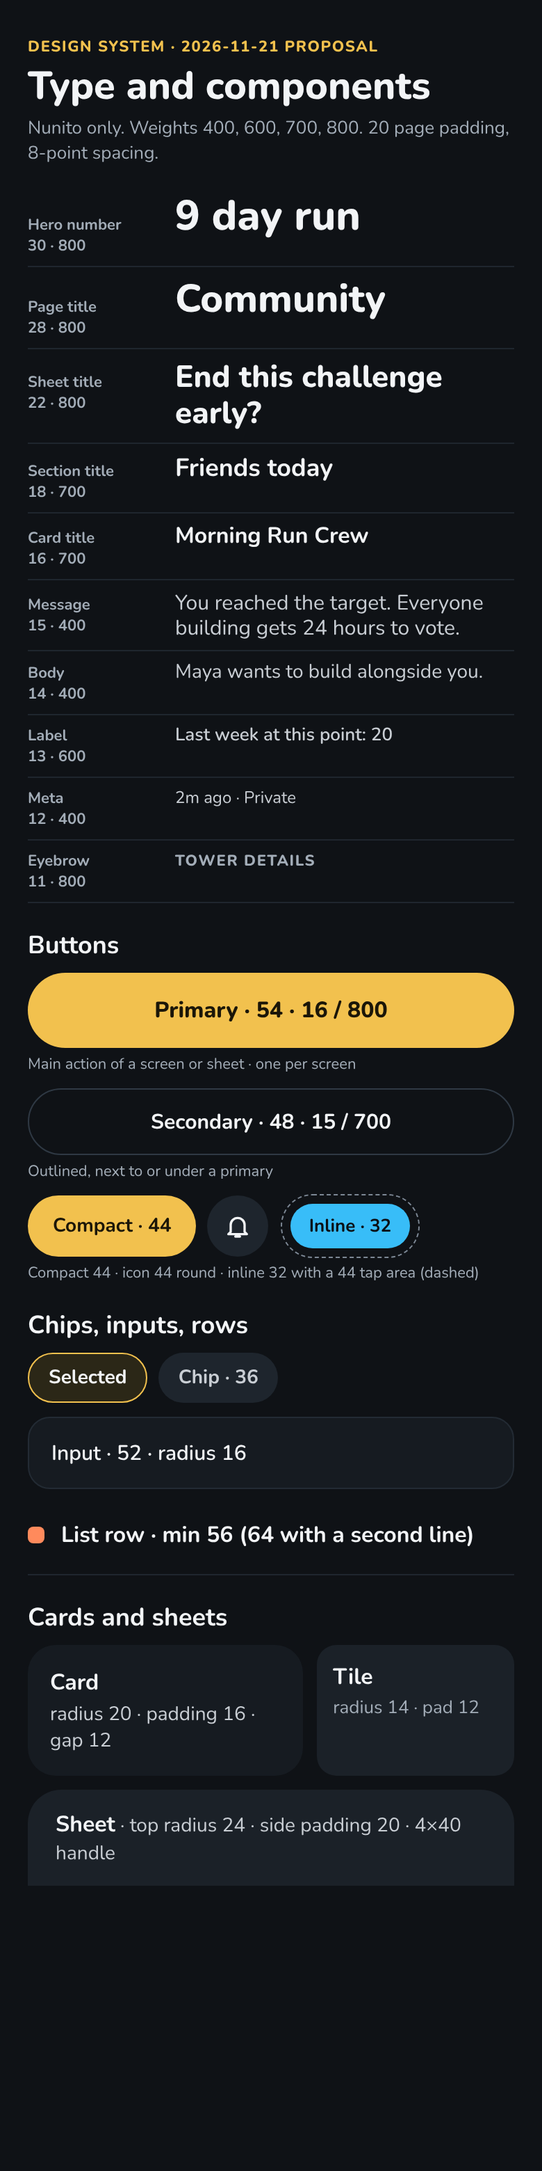
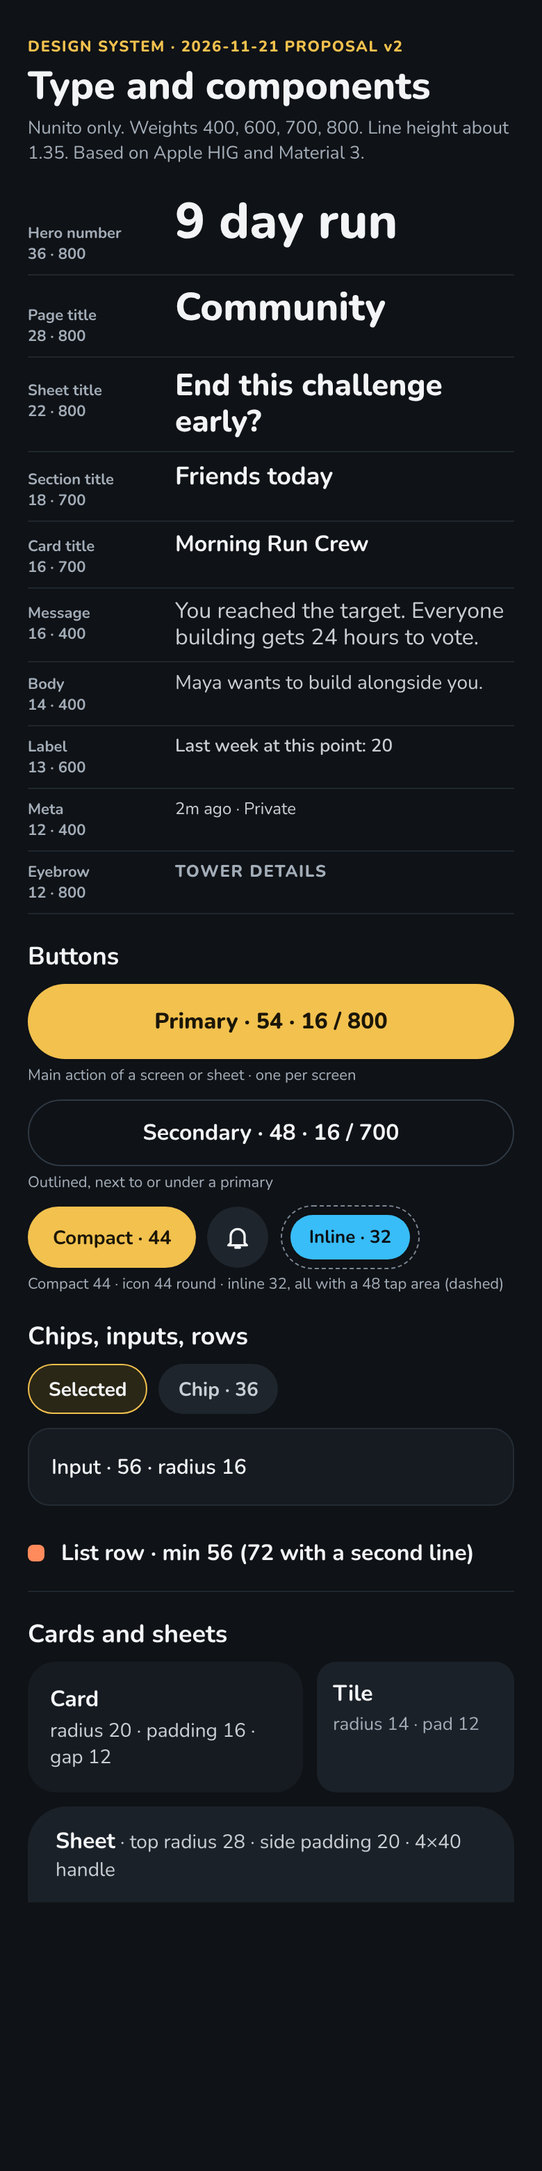
Design system proposal v2 from best-practice research
Claude-Session: https://claude.ai/code/session_01UvWD32uMFJU1E2B9jDYiLg

diff --git a/design/skyline/source/old.js b/design/skyline/source/old.js
@@ -86,7 +86,7 @@ if(S3==='ho-hold'){
   R.innerHTML=`<div style="position:absolute;inset:0;overflow:hidden"><svg width="390" height="560" style="position:absolute;top:0;left:0">${night(390,560,'h1')}<circle cx="320" cy="150" r="22" fill="#F4EFD8"/><circle cx="330" cy="144" r="20" fill="#121836"/><rect y="500" width="390" height="60" fill="#0F1216"/>${skyline(500,8.6,40,14,8,{hold:true,labels:true})}
    <circle cx="${14+3*60+27}" cy="${500-12*8.6-44}" r="28" fill="#121836" stroke="#3A4552" stroke-width="5"/><path d="M${14+3*60+27},${500-12*8.6-72}a28,28,0,1,1,-24,13" fill="none" stroke="#F2C14E" stroke-width="5" stroke-linecap="round"/><text x="${14+3*60+27}" y="${500-12*8.6-39}" text-anchor="middle" font-size="13" font-weight="800" fill="#fff" font-family="Nunito">Hold</text></svg>
    <div style="position:absolute;top:30px;left:20px;right:20px"><h1 style="font-size:30px">Keep holding</h1><div style="color:#C9CED4;font-size:15px;margin-top:2px;font-weight:600">Write, floor 15</div></div>
-   <div style="position:absolute;top:566px;left:0;right:0;bottom:76px;background:#161B21;border-radius:24px 24px 0 0;padding:16px 20px"><div style="display:flex;gap:10px">${[['Press','Tower lifts'],['Hold','Floor pours in'],['Set','Haptic tap, floor locks']].map(([t,s],i)=>`<div style="flex:1;border-radius:16px;padding:12px;${i===1?'border:2px solid #F2C14E;background:#1E252D':'background:#1B2128'}"><div style="font-weight:800;font-size:16px;${i===1?'color:#F2C14E':''}">${t}</div><div style="color:#A3ADB8;font-size:13px;margin-top:2px;line-height:1.3">${s}</div></div>`).join('')}</div>
+   <div style="position:absolute;top:566px;left:0;right:0;bottom:76px;background:#161B21;border-radius:28px 28px 0 0;padding:16px 20px"><div style="display:flex;gap:10px">${[['Press','Tower lifts'],['Hold','Floor pours in'],['Set','Haptic tap, floor locks']].map(([t,s],i)=>`<div style="flex:1;border-radius:16px;padding:12px;${i===1?'border:2px solid #F2C14E;background:#1E252D':'background:#1B2128'}"><div style="font-weight:800;font-size:16px;${i===1?'color:#F2C14E':''}">${t}</div><div style="color:#A3ADB8;font-size:13px;margin-top:2px;line-height:1.3">${s}</div></div>`).join('')}</div>
    <div style="color:#A3ADB8;font-size:14px;line-height:1.5;margin-top:14px">Hold for about a second. Let go early and nothing is built, so a stray touch never counts. Prefer a quick tap? Turn on Tap to build in Accessibility settings.</div></div></div>${tabBar(0)}`;
 }
 if(S3==='to-confirm'){
@@ -129,10 +129,10 @@ function fullHome(opt={}){
   T.forEach(([n,c,f,l],i)=>{const x=22+i*92;const full=f>=35;if(opt.done&&n==='Push ups'){o+=`<g opacity=".4">${tw('#7A6A58',{x:x-16,base:568,w:56,fh,dx:18,dy:10,floors:rep('dark',30),windows:2,today:false,wW:2.6,wH:1.8})}<path d="M${x-16},${568-30*fh}l18,-10h56l-18,10Z" fill="#E0B84A"/><path d="M${x+28},${568-30*fh-10}v-20l14,5l-14,5" fill="#F2C14E" stroke="#F2C14E" stroke-width="1.5"/></g>`;}o+=tw(c,{x,base:568,w:56,fh,dx:18,dy:10,floors:grow(f,l),windows:2,today:full?!opt.blocked:i===0,wW:2.6,wH:1.8});
     if(full&&opt.crown)o+=`<path d="M${x-2},${568-f*fh-2}h60" stroke="#F2C14E" stroke-width="3" stroke-linecap="round"/><path d="M${x+6},${568-f*fh-4}l6,-10l8,6l8,-10l8,10l8,-6l6,10Z" fill="#F2C14E"/>`;
     o+=`<text x="${x+37}" y="592" text-anchor="middle" font-size="12" font-weight="700" fill="#F2F4F6" font-family="Nunito">${n}</text>`});
-  return `<svg width="390" height="610" style="position:absolute;top:0;left:0">${night(390,568,'f1')}<rect y="568" width="390" height="42" fill="#0F1216"/>${o}</svg>${hdr3}<div style="position:absolute;top:612px;left:0;right:0;bottom:76px;background:#161B21;border-radius:24px 24px 0 0;padding:12px 20px"><div style="width:40px;height:4px;border-radius:2px;background:#3A4552;margin:0 auto 10px"></div>${['Push ups','Run'].map((n,i)=>`<div style="display:flex;align-items:center;gap:12px;height:50px"><i style="width:12px;height:12px;border-radius:4px;background:${i?'#FF8A5C':'#A78BFA'};display:block"></i><div style="flex:1;font-weight:700;font-size:15.5px">${n}</div><div style="width:86px;height:38px;border-radius:19px;border:1.5px solid #4a3f1c;display:flex;align-items:center;justify-content:center;font-weight:700;font-size:14px;color:#F2C14E">Hold</div></div>`).join('')}</div>${tabBar(0)}`;
+  return `<svg width="390" height="610" style="position:absolute;top:0;left:0">${night(390,568,'f1')}<rect y="568" width="390" height="42" fill="#0F1216"/>${o}</svg>${hdr3}<div style="position:absolute;top:612px;left:0;right:0;bottom:76px;background:#161B21;border-radius:28px 28px 0 0;padding:12px 20px"><div style="width:40px;height:4px;border-radius:2px;background:#3A4552;margin:0 auto 10px"></div>${['Push ups','Run'].map((n,i)=>`<div style="display:flex;align-items:center;gap:12px;height:50px"><i style="width:12px;height:12px;border-radius:4px;background:${i?'#FF8A5C':'#A78BFA'};display:block"></i><div style="flex:1;font-weight:700;font-size:15.5px">${n}</div><div style="width:86px;height:38px;border-radius:19px;border:1.5px solid #4a3f1c;display:flex;align-items:center;justify-content:center;font-weight:700;font-size:14px;color:#F2C14E">Hold</div></div>`).join('')}</div>${tabBar(0)}`;
 }
 const dimL=(h)=>`<div style="position:absolute;inset:0;background:rgba(4,6,10,.62)"></div>`;
-const sheetCard=(top,title,body,primary,secondary,extra='')=>`<div style="position:absolute;left:0;right:0;top:${top}px;bottom:76px;background:#1B2128;border-radius:24px 24px 0 0;padding:12px 22px"><div style="width:40px;height:4px;border-radius:2px;background:#3A4552;margin:0 auto 16px"></div><div style="width:48px;height:48px;border-radius:14px;background:#2B2717;display:flex;align-items:center;justify-content:center"><svg width="26" height="26" viewBox="0 0 24 24" fill="none" stroke="#F2C14E" stroke-width="2" stroke-linecap="round" stroke-linejoin="round"><path d="M4 18l2-9 4 4 2-7 2 7 4-4 2 9Z"/><path d="M4 21h16"/></svg></div><div style="font-size:22px;font-weight:800;margin-top:14px;line-height:1.2">${title}</div><div style="color:#C9CED4;font-size:15px;line-height:1.5;margin-top:8px">${body}</div>${extra}<div style="margin-top:18px;height:54px;border-radius:27px;background:#F2C14E;color:#1b1608;font-weight:800;font-size:16.5px;display:flex;align-items:center;justify-content:center">${primary}</div><div style="margin-top:6px;height:48px;display:flex;align-items:center;justify-content:center;font-weight:800;font-size:15px;color:#C9CED4">${secondary}</div></div>`;
+const sheetCard=(top,title,body,primary,secondary,extra='')=>`<div style="position:absolute;left:0;right:0;top:${top}px;bottom:76px;background:#1B2128;border-radius:28px 28px 0 0;padding:12px 22px"><div style="width:40px;height:4px;border-radius:2px;background:#3A4552;margin:0 auto 16px"></div><div style="width:48px;height:48px;border-radius:14px;background:#2B2717;display:flex;align-items:center;justify-content:center"><svg width="26" height="26" viewBox="0 0 24 24" fill="none" stroke="#F2C14E" stroke-width="2" stroke-linecap="round" stroke-linejoin="round"><path d="M4 18l2-9 4 4 2-7 2 7 4-4 2 9Z"/><path d="M4 21h16"/></svg></div><div style="font-size:22px;font-weight:800;margin-top:14px;line-height:1.2">${title}</div><div style="color:#C9CED4;font-size:15px;line-height:1.5;margin-top:8px">${body}</div>${extra}<div style="margin-top:18px;height:54px;border-radius:27px;background:#F2C14E;color:#1b1608;font-weight:800;font-size:16.5px;display:flex;align-items:center;justify-content:center">${primary}</div><div style="margin-top:6px;height:48px;display:flex;align-items:center;justify-content:center;font-weight:800;font-size:15px;color:#C9CED4">${secondary}</div></div>`;
 if(S3==='ft-warn'){
   R.innerHTML=`<div style="position:absolute;inset:0;overflow:hidden">${fullHome({crown:false,pf:27})}${dimL()}${sheetCard(420,'Push ups tops out in 3 days','It finishes on its own at 30 days, the cap you set when you created it. Top it out now, or change the cap in Edit. Your run carries over and nothing is lost.','Top out now','Not now')}</div>`;
 }
@@ -156,7 +156,7 @@ if(S3==='ft-sheet'){
   const pic=`<svg width="96" height="176" style="flex:0 0 96px">${tw('#7A6A58',{x:16,base:170,w:44,fh:4.6,dx:16,dy:9,floors:rep('dark',30),windows:2,today:false,wW:2.4,wH:1.6})}${flagCap(16,170-30*4.6,44,16,9)}</svg>`;
   const tile=(v,l)=>`<div style="flex:1;background:#161B21;border-radius:14px;padding:12px 10px;text-align:center"><div style="font-size:20px;font-weight:800">${v}</div><div style="font-size:12px;color:#A3ADB8;margin-top:2px">${l}</div></div>`;
   R.innerHTML=`<div style="position:absolute;inset:0;overflow:hidden">${fullHome({done:true})}${dimL()}
-  <div style="position:absolute;left:0;right:0;top:250px;bottom:76px;background:#1B2128;border-radius:24px 24px 0 0;padding:12px 22px"><div style="width:40px;height:4px;border-radius:2px;background:#3A4552;margin:0 auto 12px"></div>
+  <div style="position:absolute;left:0;right:0;top:250px;bottom:76px;background:#1B2128;border-radius:28px 28px 0 0;padding:12px 22px"><div style="width:40px;height:4px;border-radius:2px;background:#3A4552;margin:0 auto 12px"></div>
    <div style="color:#A3ADB8;font-size:11px;font-weight:800;letter-spacing:.8px">FINISHED TOWER</div>
    <div style="display:flex;gap:14px;align-items:center;margin-top:2px">${pic}<div style="flex:1"><div style="font-size:26px;font-weight:800;line-height:1.15">Push ups</div><div style="color:#A3ADB8;font-size:14px;margin-top:3px">Topped out Oct 12 · stood 30 days</div><div style="display:inline-block;margin-top:8px;font-size:12.5px;font-weight:800;padding:5px 11px;border-radius:14px;background:#2B2717;color:#F2C14E">Topped out on its own at the cap</div></div></div>
    <div style="display:flex;gap:8px;margin-top:6px">${tile('26','Total built')}${tile('17 days','Best run here')}${tile('Sep 13','Started')}</div>
@@ -239,7 +239,7 @@ if(S3==='ev-page'){
   R.innerHTML=evPage(holdBtn('<div style="height:44px;display:flex;align-items:center;justify-content:center;font-weight:800;font-size:15px;color:#C9CED4;margin-top:2px">End early</div>'));
 }
 if(S3==='ev-start'){
-  R.innerHTML=evPage(holdBtn(''))+`<div style="position:absolute;inset:0;background:rgba(4,6,10,.62)"></div><div style="position:absolute;left:0;right:0;top:420px;bottom:76px;background:#1B2128;border-radius:24px 24px 0 0;padding:12px 22px"><div style="width:40px;height:4px;border-radius:2px;background:#3A4552;margin:0 auto 14px"></div><div style="font-size:22px;font-weight:800;line-height:1.2">End this challenge early?</div><div style="color:#C9CED4;font-size:15px;line-height:1.5;margin-top:8px">You've reached the target. Everyone building gets 24 hours to vote. It ends as soon as more than half of all members say yes. No answer counts as no.</div><div style="margin-top:18px;height:54px;border-radius:27px;background:#F2C14E;color:#1b1608;font-weight:800;font-size:16.5px;display:flex;align-items:center;justify-content:center">Start the vote</div><div style="margin-top:6px;height:46px;display:flex;align-items:center;justify-content:center;font-weight:800;font-size:15px;color:#C9CED4">Keep building</div></div>`;
+  R.innerHTML=evPage(holdBtn(''))+`<div style="position:absolute;inset:0;background:rgba(4,6,10,.62)"></div><div style="position:absolute;left:0;right:0;top:420px;bottom:76px;background:#1B2128;border-radius:28px 28px 0 0;padding:12px 22px"><div style="width:40px;height:4px;border-radius:2px;background:#3A4552;margin:0 auto 14px"></div><div style="font-size:22px;font-weight:800;line-height:1.2">End this challenge early?</div><div style="color:#C9CED4;font-size:15px;line-height:1.5;margin-top:8px">You've reached the target. Everyone building gets 24 hours to vote. It ends as soon as more than half of all members say yes. No answer counts as no.</div><div style="margin-top:18px;height:54px;border-radius:27px;background:#F2C14E;color:#1b1608;font-weight:800;font-size:16.5px;display:flex;align-items:center;justify-content:center">Start the vote</div><div style="margin-top:6px;height:46px;display:flex;align-items:center;justify-content:center;font-weight:800;font-size:15px;color:#C9CED4">Keep building</div></div>`;
 }
 const tallyBar=(yes,no,total)=>`<div style="display:flex;gap:3px;height:12px;margin-top:10px">${Array.from({length:total},(_,i)=>`<div style="flex:1;border-radius:6px;background:${i<yes?'#F2C14E':(i<yes+no?'#8A93A0':'#2A333D')}"></div>`).join('')}</div>`;
 const voteCard=(mine)=>`<div style="position:absolute;left:20px;right:20px;bottom:86px;background:#1B2128;border:1.5px solid #3A4552;border-radius:20px;padding:14px 16px"><div style="display:flex;justify-content:space-between;align-items:center"><b style="font-size:17px">Vote: end early?</b><span style="color:#F2C14E;font-weight:800;font-size:13.5px">Closes in 18h</span></div><div style="color:#C9CED4;font-size:14px;line-height:1.45;margin-top:4px">Sawan proposed ending now that the target is reached. Needs 3 of 4 yes. No answer counts as no.</div>${tallyBar(mine?2:1,0,4)}<div style="display:flex;justify-content:space-between;color:#A3ADB8;font-size:13px;font-weight:700;margin-top:6px"><span>${mine?'2':'1'} yes</span><span>0 no</span><span>${mine?'2':'3'} not voted yet</span></div>
@@ -297,7 +297,7 @@ if(S3==='np-push'){
 const SKD='file:///home/user/habituate/design/skyline/';
 if(S3==='ne-end'){
   R.innerHTML=`<div style="position:absolute;inset:0;overflow:hidden"><img src="${SKD}10-sharedhabit.png" style="position:absolute;inset:0;width:390px;height:844px"><div style="position:absolute;inset:0;background:rgba(4,6,10,.66)"></div>
-  <div style="position:absolute;left:0;right:0;top:330px;bottom:0;background:#1B2128;border-radius:24px 24px 0 0;padding:12px 22px"><div style="width:40px;height:4px;border-radius:2px;background:#3A4552;margin:0 auto 16px"></div>
+  <div style="position:absolute;left:0;right:0;top:330px;bottom:0;background:#1B2128;border-radius:28px 28px 0 0;padding:12px 22px"><div style="width:40px;height:4px;border-radius:2px;background:#3A4552;margin:0 auto 16px"></div>
   <div style="font-size:22px;font-weight:800;line-height:1.2">End Morning Run Crew?</div>
   <div style="color:#C9CED4;font-size:15px;line-height:1.5;margin-top:8px">Its final group run, 12 days, stays on the page and the shared habit moves to Completed. Nobody can build on it any more, and every member sees it as ended.</div>
   <div style="margin-top:12px;background:#161B21;border-radius:14px;padding:12px 14px;font-size:14px;color:#A3ADB8;line-height:1.45">Want to remove it for everyone instead? Use Delete. That erases it, including the group run.</div>
@@ -307,7 +307,7 @@ if(S3==='ne-end'){
 if(S3==='ne-join'){
   const habits=[['Run','#FF8A5C',true],['Read 10 minutes','#38BDF8',false],['Write 300 words','#F2C14E',false]];
   R.innerHTML=`<div style="position:absolute;inset:0;overflow:hidden"><img src="${SKD}40-notification-center.png" style="position:absolute;inset:0;width:390px;height:844px"><div style="position:absolute;inset:0;background:rgba(4,6,10,.66)"></div>
-  <div style="position:absolute;left:0;right:0;top:300px;bottom:0;background:#1B2128;border-radius:24px 24px 0 0;padding:12px 22px"><div style="width:40px;height:4px;border-radius:2px;background:#3A4552;margin:0 auto 16px"></div>
+  <div style="position:absolute;left:0;right:0;top:300px;bottom:0;background:#1B2128;border-radius:28px 28px 0 0;padding:12px 22px"><div style="width:40px;height:4px;border-radius:2px;background:#3A4552;margin:0 auto 16px"></div>
   <div style="font-size:22px;font-weight:800;line-height:1.2">Join Morning Run Crew</div>
   <div style="color:#C9CED4;font-size:15px;line-height:1.5;margin-top:6px">Pick the habit you'll build with this group.</div>
   <div style="margin-top:12px">${habits.map(([n,c,on])=>`<div style="display:flex;align-items:center;gap:12px;height:56px;border-bottom:1px solid #232b34"><i style="width:12px;height:12px;border-radius:4px;background:${c};display:block"></i><div style="flex:1;font-weight:700;font-size:16px">${n}</div><div style="width:24px;height:24px;border-radius:12px;border:2px solid ${on?'#F2C14E':'#3A4552'};display:flex;align-items:center;justify-content:center">${on?'<i style="width:12px;height:12px;border-radius:6px;background:#F2C14E;display:block"></i>':''}</div></div>`).join('')}</div>
@@ -317,7 +317,7 @@ if(S3==='ne-join'){
 
 function sheetBase(head,body){
   return `<div style="position:absolute;inset:0;overflow:hidden"><div style="position:absolute;top:0;left:0;right:0;height:80px;background:linear-gradient(#0B1030,#1A2148)"></div>
-  <div style="position:absolute;top:56px;left:0;right:0;bottom:76px;background:#161B21;border-radius:24px 24px 0 0;padding:0 20px;overflow:hidden"><div style="width:40px;height:4px;border-radius:2px;background:#3A4552;margin:10px auto 8px"></div>${head}${body}</div></div>${tabBar(0)}`;
+  <div style="position:absolute;top:56px;left:0;right:0;bottom:76px;background:#161B21;border-radius:28px 28px 0 0;padding:0 20px;overflow:hidden"><div style="width:40px;height:4px;border-radius:2px;background:#3A4552;margin:10px auto 8px"></div>${head}${body}</div></div>${tabBar(0)}`;
 }
 const tsHead=(name,meta,why)=>`<div style="display:flex;gap:10px;align-items:center"><div style="width:12px;height:30px;border-radius:5px;background:#F2C14E"></div><div><div style="color:#A3ADB8;font-size:11px;font-weight:800;letter-spacing:.8px">TOWER DETAILS</div><div style="font-size:22px;font-weight:800;line-height:1.15">${name}</div><div style="color:#A3ADB8;font-size:12.5px">${meta}</div></div></div>`;
 const capRow=`<div style="border:1.5px solid #F2C14E;background:#2B2717;border-radius:16px;padding:10px 12px;display:flex;gap:10px;align-items:center;margin-top:10px"><div style="flex:1"><div style="font-weight:800;font-size:14.5px">Tops out at 30 days</div><div style="color:#A3ADB8;font-size:12px;line-height:1.3;margin-top:2px">12 days to go. It tops out on its own, or you can top it out now.</div></div><div style="background:#F2C14E;color:#1b1608;font-weight:800;border-radius:20px;height:36px;padding:0 14px;display:flex;align-items:center;font-size:13.5px;white-space:nowrap">Top out now</div></div>`;
@@ -357,23 +357,23 @@ if(S3==='ts-count-unit'){
 }
 
 if(S3==='ds-spec'){
-  const TYPE=[['Hero number','30','800','9 day run'],['Page title','28','800','Community'],['Sheet title','22','800','End this challenge early?'],['Section title','18','700','Friends today'],['Card title','16','700','Morning Run Crew'],['Message','15','400','You reached the target. Everyone building gets 24 hours to vote.'],['Body','14','400','Maya wants to build alongside you.'],['Label','13','600','Last week at this point: 20'],['Meta','12','400','2m ago · Private'],['Eyebrow','11','800','TOWER DETAILS']];
+  const TYPE=[['Hero number','36','800','9 day run'],['Page title','28','800','Community'],['Sheet title','22','800','End this challenge early?'],['Section title','18','700','Friends today'],['Card title','16','700','Morning Run Crew'],['Message','16','400','You reached the target. Everyone building gets 24 hours to vote.'],['Body','14','400','Maya wants to build alongside you.'],['Label','13','600','Last week at this point: 20'],['Meta','12','400','2m ago · Private'],['Eyebrow','12','800','TOWER DETAILS']];
   const wt={'800':'800','700':'700','600':'600','400':'400'};
   const row=(n,sz,w,s)=>`<div style="display:flex;align-items:baseline;gap:10px;padding:7px 0;border-bottom:1px solid #1F262E"><div style="width:96px;flex:0 0 96px;color:#A3ADB8;font-size:11px;font-weight:700">${n}<br>${sz} · ${w}</div><div style="flex:1;font-size:${sz}px;font-weight:${w};line-height:1.2;${n==='Eyebrow'?'letter-spacing:.8px;color:#A3ADB8':(n==='Message'||n==='Body'||n==='Label'||n==='Meta')?'color:#C9CED4':''}">${s}</div></div>`;
   const spec=(t,d)=>`<div style="font-size:11px;color:#A3ADB8;margin-top:4px">${t}${d?` · ${d}`:''}</div>`;
-  R.innerHTML=`<div style="position:absolute;inset:0;overflow:hidden;padding:26px 20px 0"><div style="font-size:11px;font-weight:800;letter-spacing:.8px;color:#F2C14E">DESIGN SYSTEM · 2026-11-21 PROPOSAL</div><div style="font-size:28px;font-weight:800;margin-top:2px">Type and components</div><div style="color:#A3ADB8;font-size:13px;margin-top:2px">Nunito only. Weights 400, 600, 700, 800. 20 page padding, 8-point spacing.</div>
+  R.innerHTML=`<div style="position:absolute;inset:0;overflow:hidden;padding:26px 20px 0"><div style="font-size:11px;font-weight:800;letter-spacing:.8px;color:#F2C14E">DESIGN SYSTEM · 2026-11-21 PROPOSAL v2</div><div style="font-size:28px;font-weight:800;margin-top:2px">Type and components</div><div style="color:#A3ADB8;font-size:13px;margin-top:2px">Nunito only. Weights 400, 600, 700, 800. Line height about 1.35. Based on Apple HIG and Material 3.</div>
   <div style="margin-top:12px">${TYPE.map(t=>row(...t)).join('')}</div>
   <div style="font-size:18px;font-weight:700;margin:18px 0 8px">Buttons</div>
   <div style="height:54px;border-radius:27px;background:#F2C14E;color:#1b1608;font-weight:800;font-size:16px;display:flex;align-items:center;justify-content:center">Primary · 54 · 16 / 800</div>${spec('Main action of a screen or sheet','one per screen')}
-  <div style="height:48px;border-radius:24px;border:1.5px solid #2F3944;font-weight:700;font-size:15px;display:flex;align-items:center;justify-content:center;margin-top:10px">Secondary · 48 · 15 / 700</div>${spec('Outlined, next to or under a primary')}
-  <div style="display:flex;gap:8px;margin-top:10px;align-items:center"><div style="height:44px;padding:0 18px;border-radius:22px;background:#F2C14E;color:#1b1608;font-weight:700;font-size:14px;display:flex;align-items:center">Compact · 44</div><div style="height:44px;width:44px;border-radius:22px;background:#1E252D;display:flex;align-items:center;justify-content:center">${ico('bell',20)}</div><div style="position:relative;height:32px;padding:0 13px;border-radius:16px;background:#38BDF8;color:#0b0f14;font-weight:700;font-size:13px;display:flex;align-items:center;outline:1px dashed #7C8794;outline-offset:6px;margin-left:8px">Inline · 32</div></div>${spec('Compact 44 · icon 44 round · inline 32 with a 44 tap area (dashed)')}
+  <div style="height:48px;border-radius:24px;border:1.5px solid #2F3944;font-weight:700;font-size:16px;display:flex;align-items:center;justify-content:center;margin-top:10px">Secondary · 48 · 16 / 700</div>${spec('Outlined, next to or under a primary')}
+  <div style="display:flex;gap:8px;margin-top:10px;align-items:center"><div style="height:44px;padding:0 18px;border-radius:22px;background:#F2C14E;color:#1b1608;font-weight:700;font-size:14px;display:flex;align-items:center">Compact · 44</div><div style="height:44px;width:44px;border-radius:22px;background:#1E252D;display:flex;align-items:center;justify-content:center">${ico('bell',20)}</div><div style="position:relative;height:32px;padding:0 13px;border-radius:16px;background:#38BDF8;color:#0b0f14;font-weight:700;font-size:13px;display:flex;align-items:center;outline:1px dashed #7C8794;outline-offset:6px;margin-left:8px">Inline · 32</div></div>${spec('Compact 44 · icon 44 round · inline 32, all with a 48 tap area (dashed)')}
   <div style="font-size:18px;font-weight:700;margin:18px 0 8px">Chips, inputs, rows</div>
   <div style="display:flex;gap:8px"><div style="height:36px;border-radius:18px;padding:0 14px;display:flex;align-items:center;background:#2B2717;border:1.5px solid #F2C14E;font-weight:700;font-size:14px">Selected</div><div style="height:36px;border-radius:18px;padding:0 14px;display:flex;align-items:center;background:#1E252D;font-weight:700;font-size:14px;color:#C9CED4">Chip · 36</div></div>
-  <div style="height:52px;border-radius:16px;background:#161B21;border:1px solid #232b34;display:flex;align-items:center;padding:0 16px;font-size:15px;font-weight:600;margin-top:10px">Input · 52 · radius 16</div>
-  <div style="height:56px;display:flex;align-items:center;gap:12px;border-bottom:1px solid #1F262E;margin-top:6px"><i style="width:12px;height:12px;border-radius:4px;background:#FF8A5C;display:block"></i><b style="font-size:16px;flex:1">List row · min 56 (64 with a second line)</b></div>
+  <div style="height:56px;border-radius:16px;background:#161B21;border:1px solid #232b34;display:flex;align-items:center;padding:0 16px;font-size:15px;font-weight:600;margin-top:10px">Input · 56 · radius 16</div>
+  <div style="height:56px;display:flex;align-items:center;gap:12px;border-bottom:1px solid #1F262E;margin-top:6px"><i style="width:12px;height:12px;border-radius:4px;background:#FF8A5C;display:block"></i><b style="font-size:16px;flex:1">List row · min 56 (72 with a second line)</b></div>
   <div style="font-size:18px;font-weight:700;margin:18px 0 8px">Cards and sheets</div>
   <div style="display:flex;gap:10px"><div style="flex:1.4;background:#161B21;border-radius:20px;padding:16px"><b style="font-size:16px">Card</b><div style="font-size:14px;color:#C9CED4;margin-top:2px">radius 20 · padding 16 · gap 12</div></div><div style="flex:1;background:#1B2128;border-radius:14px;padding:12px"><b style="font-size:16px">Tile</b><div style="font-size:13px;color:#A3ADB8;margin-top:2px">radius 14 · pad 12</div></div></div>
-  <div style="background:#1B2128;border-radius:24px 24px 0 0;padding:14px 20px;margin-top:10px;font-size:14px;color:#C9CED4"><b style="font-size:16px;color:#F2F4F6">Sheet</b> · top radius 24 · side padding 20 · 4×40 handle</div></div>`;
+  <div style="background:#1B2128;border-radius:28px 28px 0 0;padding:14px 20px;margin-top:10px;font-size:14px;color:#C9CED4"><b style="font-size:16px;color:#F2F4F6">Sheet</b> · top radius 28 · side padding 20 · 4×40 handle</div></div>`;
 }
 
 //END

diff --git a/design/skyline/DESIGN-SYSTEM.md b/design/skyline/DESIGN-SYSTEM.md
@@ -1,35 +1,33 @@
-# Habituate design system (PROPOSAL, 2026-11-21, awaiting owner approval)
+# Habituate design system (PROPOSAL v2, 2026-11-21, awaiting owner approval)
 
-Reference board: `79-design-system.png`. Font is Nunito only (weights 400, 600, 700, 800). Never set fontWeight with a Nunito family; use `fonts.*`.
+Reference board: `79-design-system.png`. Nunito only (400, 600, 700, 800). Never set fontWeight with a Nunito family; use `fonts.*`. Line height about 1.35 x size. Checked against Apple HIG and Android accessibility docs; Material 3 values are from memory and unverified.
 
-## Type scale (390 wide, sizes in dp)
-| Role | Size / weight | Use |
+## Type scale (dp, size/line height, weight)
+| Role | Spec | Use |
 |---|---|---|
-| Hero number | 30 / 800 | big run or count figures |
-| Page title | 28 / 800 | tab and screen titles (app token screenTitle moves 26 to 28) |
-| Sheet title | 22 / 800 | modal and bottom sheet titles |
-| Section title | 18 / 700 | section headers inside a screen |
-| Card title | 16 / 700 | card, list row and habit names |
-| Message | 15 / 400 | notification text, explainers, prompts |
-| Body | 14 / 400 | descriptions, secondary lines |
-| Label | 13 / 600 | field labels, chip text, small buttons |
-| Meta | 12 / 400 | timestamps, counts, hints |
-| Eyebrow | 11 / 800, +0.8 tracking, caps | small overlines |
+| Hero number | 36/40, 800 | big run or count figures |
+| Page title | 28/34, 800 | tab and screen titles (theme screenTitle 26 to 28) |
+| Sheet title | 22/28, 800 | sheet and modal titles |
+| Section title | 18/24, 700 | section headers (theme sectionTitle 16 to 18) |
+| Card title | 16/22, 700 | card, row and habit names |
+| Message | 16/24, 400 | notification text, coach replies, explainers |
+| Body | 14/20, 400 | short descriptions, secondary lines |
+| Label | 13/18, 600 | field labels, chip text, inline buttons |
+| Meta | 12/16, 400 | timestamps, counts; never for actions or status |
+| Eyebrow | 12/16, 800, caps, +0.5 tracking | overlines |
 
-No half sizes (12.5, 13.5, 14.5, 15.5, 16.5 are retired).
+No half sizes. Never disable font scaling; cap with maxFontSizeMultiplier 1.3 only on hero, eyebrow and tab labels. Test Android 200% font scale at 360dp.
 
-## Buttons
-- Primary 54 high, pill, 16 / 800. One per screen or sheet.
-- Secondary 48 high, pill, outlined, 15 / 700.
-- Compact 44 high, pill, 14 / 700. Icon button 44 round.
-- Inline (notification rows) 32 high visual, 13 / 700, with a 44 tap area.
-- Chip 36 high, pill, 14 / 700.
+## Buttons and controls
+- Primary 54, pill, 16/800, one per screen. Secondary 48, outlined, 16/700. Compact 44, 14/700. Icon 44 round.
+- Inline 32 visual, 13/700. Chip 36 visual, 14/700.
+- Every control has a 48dp tap area (hitSlop). This raises the project's 44dp rule to 48 for Android.
+- Input 56, radius 16. List row min 56 (72 with a second line).
 
-## Surfaces
-- Page side padding 20. Spacing steps 4, 8, 12, 16, 20, 28.
-- Card radius 20, padding 16, gap 12. Tile radius 14, padding 12.
-- Input 52 high, radius 16. List row min 56 (64 with a second line).
-- Sheet top radius 24, side padding 20, handle 4 by 40.
+## Surfaces and spacing
+- Spacing 4, 8, 12, 16, 24, 32. Page side padding 20 (sheets too).
+- Card radius 20, padding 16, gap 12. Tile radius 14, padding 12. Sheet top radius 28, handle 4x40.
+- Muted text (meta, eyebrow) must reach 4.5:1 on dark and light surfaces; check before build.
 
-## Changes against today's code (theme.js)
-screenTitle 26 to 28; add heroNumber 30, sheetTitle 22, message 15, eyebrow 11; sectionTitle 16 to 18; cardTitle stays 16; radii add 14, 20, 24; add button heights 54/48/44/32.
+## theme.js changes
+screenTitle 28, sectionTitle 18; add heroNumber 36, sheetTitle 22, message 16, eyebrow 12; radii add 14, 20, 28; button heights 54/48/44/32; spacing 24 and 32.
